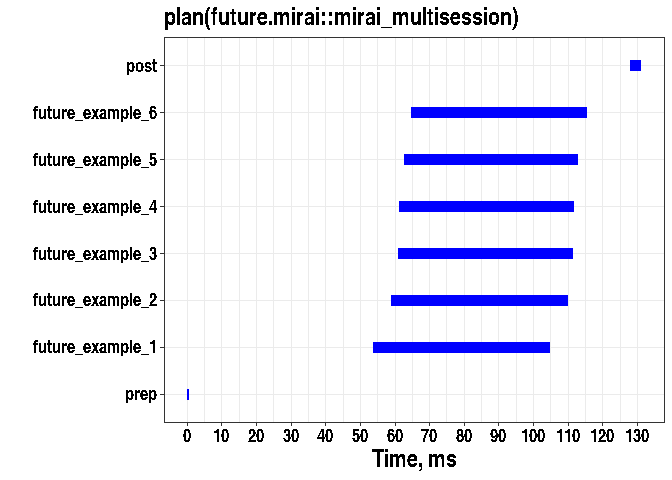
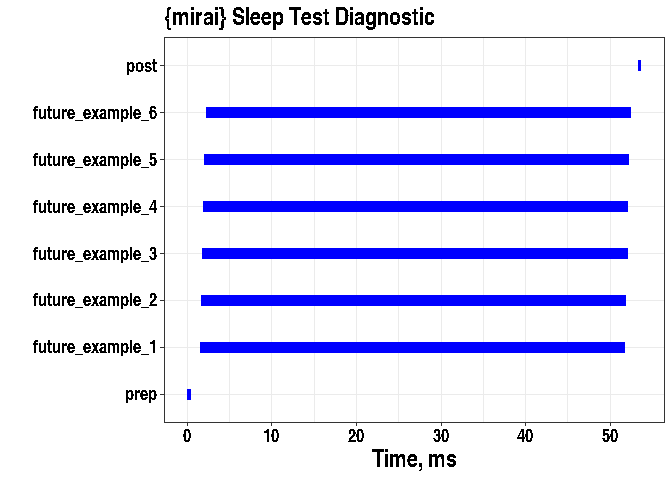
Updated R example in README

diff --git a/README.md b/README.md
@@ -44,58 +44,75 @@ This version of sendUDP probably does not work on Windows.
 ### Parallel Processing in R Diagnostic Example
 
 ``` r
-library(future)
-library(future.apply)
+## Claude code + posit-dev-skills assisted
+library(mirai)
 library(RsendUDP) # Send UDP packets with timing and thread data
 
-## Sample function to run multiple copies in parallel
-future_example <- function(sleep_time) {
-    sU <- sendUDP("127.0.0.1", 1800, str_c(Sys.time(), ' future_example ', Sys.getpid(), ' Start\n'))
-    Sys.sleep(sleep_time)
-    sU <- sendUDP("127.0.0.1", 1800, str_c(Sys.time(), ' future_example ', Sys.getpid(), ' End\n'))
-    return(1L)
+## Sample function - mirai tasks get only the named args they need (no closure capture)
+parallel_sleep_test <- function(sleep_time, num_threads, ip_address, port_number) {
+    sU <- 0
+    sU <- sU + RsendUDP::sendUDP(ip_address, port_number, '\ndate time func pid state\n')
+
+    ## Dummy prep - measures sendUDP overhead
+    sU <- sU + RsendUDP::sendUDP(ip_address, port_number, str_c(Sys.time(), ' prep ', Sys.getpid(), ' Start\n'))
+    sU <- sU + RsendUDP::sendUDP(ip_address, port_number, str_c(Sys.time(), ' prep ', Sys.getpid(), ' End\n'))
+
+    ## Overall parallel start
+    sU <- sU + RsendUDP::sendUDP(ip_address, port_number, str_c(Sys.time(), ' process ', Sys.getpid(), ' Start\n'))
+
+    ## Dispatch all tasks first, then collect — minimises time between dispatches
+    tasks <- lapply(seq_len(num_threads), function(i) {
+        mirai(
+            {
+                sU <- RsendUDP::sendUDP(ip, port, paste0(Sys.time(), ' future_example ', Sys.getpid(), ' Start\n'))
+                Sys.sleep(st)
+                sU <- RsendUDP::sendUDP(ip, port, paste0(Sys.time(), ' future_example ', Sys.getpid(), ' End\n'))
+                1L
+            },
+            st   = sleep_time,
+            ip   = ip_address,
+            port = port_number
+        )
+    })
+
+    ## Collect results
+    results <- lapply(tasks, \(m) m[])
+
+    sU <- sU + RsendUDP::sendUDP(ip_address, port_number, str_c(Sys.time(), ' process ', Sys.getpid(), ' End\n'))
+
+    ## Post processing
+    sU <- sU + RsendUDP::sendUDP(ip_address, port_number, str_c(Sys.time(), ' post ', Sys.getpid(), ' Start\n'))
+    result_sum <- Reduce(`+`, results, 0L)
+    sU <- sU + RsendUDP::sendUDP(ip_address, port_number, str_c(Sys.time(), ' post ', Sys.getpid(), ' End\n'))
+
+    sU <- sU + RsendUDP::sendUDP(ip_address, port_number, 'Done\n')
+
+    return(list(threads = result_sum, UDPres = sU))
 }
 
-sleep1      <- 0.050 # 50 milliseconds
+## First start the UDP packet collection code in process-udp.R
+
 num_threads <- 6
 
-## Send the data header
-sU <- sendUDP("127.0.0.1", 1800, '\ndate time func pid state\n')
+## Start persistent daemons, pre-loading packages so they are NOT re-exported per call.
+## dispatcher = FALSE is lower latency when you always submit exactly num_threads tasks.
+daemons(num_threads, dispatcher = FALSE)
 
-plan(future.mirai::mirai_multisession)
+## Pre-load packages on all workers once via broadcast — not re-exported per task.
+everywhere(library(RsendUDP, quietly = TRUE))
 
-## Dummy data prep - provides a measure of sendUDP overhead time
-sU <- sendUDP("127.0.0.1", 1800, str_c(Sys.time(), ' prep ', Sys.getpid(), ' Start\n'))
-sU <- sendUDP("127.0.0.1", 1800, str_c(Sys.time(), ' prep ', Sys.getpid(), ' End\n'))
+sleep1 <- 0.050 # 50 milliseconds
 
-## Overall parallel processing time - Start
-sU <- sendUDP("127.0.0.1", 1800, str_c(Sys.time(), ' process ', Sys.getpid(), ' Start\n'))
+parallel_sleep_test(sleep1, num_threads, '127.0.0.1', 1800)
 
-## Run future_example num_threads times, in parallel
-results_list <- future_lapply(1:num_threads,
-                              function(thread) { future_example(sleep1) },
-                              future.packages = c('RsendUDP'))
-
-## Overall parallel processing time - End
-sU <- sendUDP("127.0.0.1", 1800, str_c(Sys.time(), ' process ', Sys.getpid(), ' End\n'))
-
-## Collect results - post processing
-sU <- sendUDP("127.0.0.1", 1800, str_c(Sys.time(), ' post ', Sys.getpid(), ' Start\n'))
-result_sum <- 0
-for (thread_result in 1:num_threads) {
-    result_sum <- result_sum +  results_list[[thread_result]]
-}
-sU <- sendUDP("127.0.0.1", 1800, str_c(Sys.time(), ' post ', Sys.getpid(), ' End\n'))
-
-## Send a data complete message, could trigger diagnostic data processing
-sU <- sendUDP("127.0.0.1", 1800, 'Done\n')
-
-result_sum # Don't print results in a section that is being timed
+## Clean up daemons when done
+## daemons(0)
 ```
 
 #### Process the diagnostic / timing results
 
-Copy / paste results collected with “nc -lku 1800” in a terminal:
+See process-udp.R in the inst directory, or copy / paste results
+collected with “nc -lku 1800” in a terminal:
 
 ``` r
 library(dplyr)
@@ -105,26 +122,26 @@ library(stringr)
 library(forcats)
 library(ggplot2)
 
-Title <- 'plan(future.mirai::mirai_multisession)'
+Title <- '{mirai} Sleep Test Diagnostic'
 threads <- read_table('date time func pid state
-2026-02-26 22:55:12.065301 prep 18652 Start
-2026-02-26 22:55:12.065988 prep 18652 End
-2026-02-26 22:55:12.066391 process 18652 Start
-2026-02-26 22:55:12.119132 future_example 19408 Start
-2026-02-26 22:55:12.124278 future_example 19364 Start
-2026-02-26 22:55:12.126396 future_example 19504 Start
-2026-02-26 22:55:12.126561 future_example 19371 Start
-2026-02-26 22:55:12.127924 future_example 19397 Start
-2026-02-26 22:55:12.130166 future_example 19384 Start
-2026-02-26 22:55:12.170069 future_example 19408 End
-2026-02-26 22:55:12.17539 future_example 19364 End
-2026-02-26 22:55:12.176883 future_example 19504 End
-2026-02-26 22:55:12.177115 future_example 19371 End
-2026-02-26 22:55:12.178376 future_example 19397 End
-2026-02-26 22:55:12.180791 future_example 19384 End
-2026-02-26 22:55:12.192683 process 18652 End
-2026-02-26 22:55:12.193324 post 18652 Start
-2026-02-26 22:55:12.196603 post 18652 End
+2026-04-04 01:59:23.640762 prep 659577 Start
+2026-04-04 01:59:23.641291 prep 659577 End
+2026-04-04 01:59:23.641563 process 659577 Start
+2026-04-04 01:59:23.6423 future_example 3075982 Start
+2026-04-04 01:59:23.642483 future_example 3075997 Start
+2026-04-04 01:59:23.64262 future_example 3076073 Start
+2026-04-04 01:59:23.642683 future_example 3076120 Start
+2026-04-04 01:59:23.642817 future_example 3076137 Start
+2026-04-04 01:59:23.643005 future_example 3076183 Start
+2026-04-04 01:59:23.692602 future_example 3075982 End
+2026-04-04 01:59:23.692729 future_example 3075997 End
+2026-04-04 01:59:23.692911 future_example 3076120 End
+2026-04-04 01:59:23.692889 future_example 3076073 End
+2026-04-04 01:59:23.693055 future_example 3076137 End
+2026-04-04 01:59:23.693246 future_example 3076183 End
+2026-04-04 01:59:23.6935 process 659577 End
+2026-04-04 01:59:23.694066 post 659577 Start
+2026-04-04 01:59:23.694514 post 659577 End
 ',col_types = 'cccnc')
 
 theme_jm1 <- theme_bw() + # A decent theme for HTML output
@@ -174,7 +191,6 @@ plot_r_threads <- function(thread_sum, title) {
 
 ts_list <- gen_thread_summary(threads, 'future_example')
 
-Title <- 'plan(future.mirai::mirai_multisession)'
 plot_r_threads(ts_list$thread_summary, Title)
 ```
 
@@ -185,23 +201,23 @@ ts_list$thread_summary
 ```
 
     # A tibble: 8 × 4
-      func             Start     End     dt
-      <fct>            <dbl>   <dbl>  <dbl>
-    1 prep               0     0.687  0.687
-    2 future_example_1  53.8 105.    50.9  
-    3 future_example_2  59.0 110.    51.1  
-    4 future_example_3  61.1 112.    50.5  
-    5 future_example_4  61.3 112.    50.6  
-    6 future_example_5  62.6 113.    50.5  
-    7 future_example_6  64.9 115.    50.6  
-    8 post             128.  131.     3.28 
+      func             Start    End     dt
+      <fct>            <dbl>  <dbl>  <dbl>
+    1 prep              0     0.529  0.529
+    2 future_example_1  1.54 51.8   50.3  
+    3 future_example_2  1.72 52.0   50.2  
+    4 future_example_3  1.86 52.1   50.3  
+    5 future_example_4  1.92 52.1   50.2  
+    6 future_example_5  2.05 52.3   50.2  
+    7 future_example_6  2.24 52.5   50.2  
+    8 post             53.3  53.8    0.448
 
 ``` r
 str_c('UDP Overhead: ', formatC(ts_list$udp_overhead_time, digits = 3, format = 'f'), ' ms   ',
       'First thread: ', formatC(ts_list$first_thread, digits = 3, format = 'f'), ' ms')
 ```
 
-    [1] "UDP Overhead: 0.687 ms   First thread: 52.741 ms"
+    [1] "UDP Overhead: 0.529 ms   First thread: 0.737 ms"
 
 ### Parallel Processing with Rcpp and OpenMP Diagnostic Example
 
